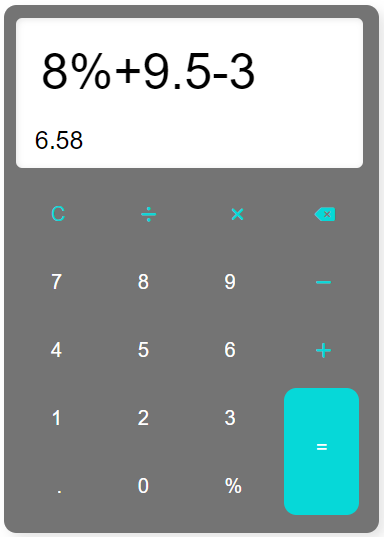
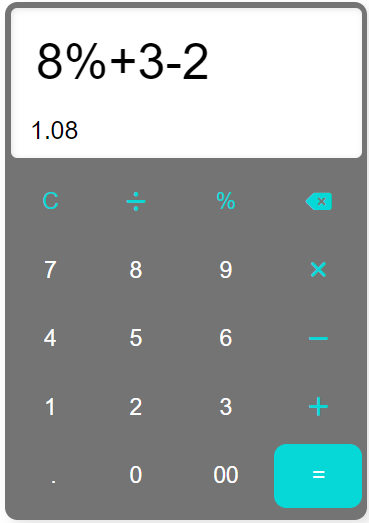
easy calculator

diff --git a/Calculator_app/easy/index.html b/Calculator_app/easy/index.html
@@ -16,34 +16,28 @@
       <input type="text" class="input" id="expressionInput" onkeydown="handleKeyPress(event)" spellcheck="false" autofocus>
       <div class="output"></div>
     </div>
-    <div class="buttons">
-       <div class="row1">
-          <button onclick="clearDisplay()">C</button>
-          <button onclick="appendToDisplay('/')"><i class="fas fa-divide"></i></button> 
-          <button onclick="appendToDisplay('*')"><i class="fas fa-times"></i></button>
-          <button class="delete-icon" onclick="deleteNumber()"><i class="fas fa-backspace"></i></button>
-        </div>
-       <div class="key">
-        <div class="row2">
+    <div class="button">
+          <button class="key" onclick="clearDisplay()">C</button>
+          <button class="key" onclick="appendToDisplay('/')"><i class="fas fa-divide"></i></button> 
+          <button class="key" onclick="appendToDisplay('%')">%</button>
+          <button class="key" onclick="deleteNumber()"><i class="fas fa-backspace"></i></button>
            <button onclick="appendToDisplay('7')">7</button>
            <button onclick="appendToDisplay('8')">8</button>
-           <button onclick="appendToDisplay('9')">9</button> 
+           <button onclick="appendToDisplay('9')">9</button>
+           <button class="key" onclick="appendToDisplay('*')"><i class="fas fa-times"></i></button>
            <button onclick="appendToDisplay('4')">4</button>
            <button onclick="appendToDisplay('5')">5</button>
            <button onclick="appendToDisplay('6')">6</button>
+           <button class="key" onclick="appendToDisplay('-')"><i class="fas fa-minus"></i></button> 
            <button onclick="appendToDisplay('1')">1</button>
            <button onclick="appendToDisplay('2')">2</button>
-           <button onclick="appendToDisplay('3')">3</button>
+           <button onclick="appendToDisplay('3')">3</button> 
+           <button class="key" onclick="appendToDisplay('+')"><i class="fas fa-plus"></i></button>
            <button onclick="appendToDisplay('.')">&nbsp;.</button>
            <button onclick="appendToDisplay('0')">0</button>
-           <button onclick="appendToDisplay('%')">%</button>
-        </div>
-        <div class="row3"> 
-           <button onclick="appendToDisplay('-')"><i class="fas fa-minus"></i></button>
-           <button onclick="appendToDisplay('+')"><i class="fas fa-plus"></i></button>
-           <button onclick="calculate()" class="equalSign">=</button>
-           </div>
-      </div>
+           <button onclick="appendToDisplay('00')">00</button>
+           <button class="equalSign" onclick="calculate()">=</button>
+           <button></button>
     </div>
   </div>
 </body>

diff --git a/Calculator_app/easy/style.css b/Calculator_app/easy/style.css
@@ -8,17 +8,15 @@ body {
   } 
   .calculator { 
     border-radius: 10px;
-    padding: 10px;
+    padding: 5px;
     width: 280px;
     background-color: rgba(84, 84, 84, 0.81);
     box-shadow: 5px 5px 10px rgba(0, 0, 0, 0.1);
-  }
-  .buttons{
-    display: grid;
+    height: 405px;
   }
   .display-area {
     display: inline-block;
-    width: 92%;
+    width: 93%;
     height: 100px;
     margin-bottom: 10px;
     padding: 10px;
@@ -29,7 +27,7 @@ body {
     box-shadow: inset 1px 1px 5px rgba(0, 0, 0, 0.1);
   }
   .display-area input[type="text"] {
-    width: 92%;
+    width: 93%;
     text-align: left;
     margin-bottom: 10px;
     padding: 10px; 
@@ -42,31 +40,28 @@ body {
     text-align: left;
      padding-left: 5px;
   }
-  .key {
-    display: flex; 
-  }
-  :is(.row1, .row2, .row3) button { 
-    padding: 15px 25px 15px 25px;
-    font-size: 16px;
-    border: none;
-    cursor: pointer;
-    color: #fff;
-    background-color: transparent;
-    margin: 3px; 
-  }
-  i{
-    font-size: 14px;
-  }
-  .row1 .delete-icon {
-    padding: 12px 22px 12px 22px;
-  }
-  .row1 button , .row3 button{
+  .button .key{
     color: rgb(6, 216, 216);
   }
-  .row3 .equalSign{
-    padding:38px 25px 45px 25px;
-    background-color:rgb(6, 216, 216);
-    color:#fff;
-    border-radius: 10px;
-  }
-  
+  .button {
+    display: grid;
+    grid-template-columns: repeat(4, 1fr);
+    gap: 4px;
+}
+.button button {
+    width: 100%;
+    padding: 15px 25px 15px 25px;
+    font-size: 18px;
+    color: #fff;
+    background-color: transparent;
+    border: none;
+    cursor: pointer;
+    display: flex;
+    justify-content: center;
+    align-items: center;
+}
+.button .equalSign{
+  background-color:rgb(6, 216, 216);
+  color:#fff;
+  border-radius: 10px;
+}
